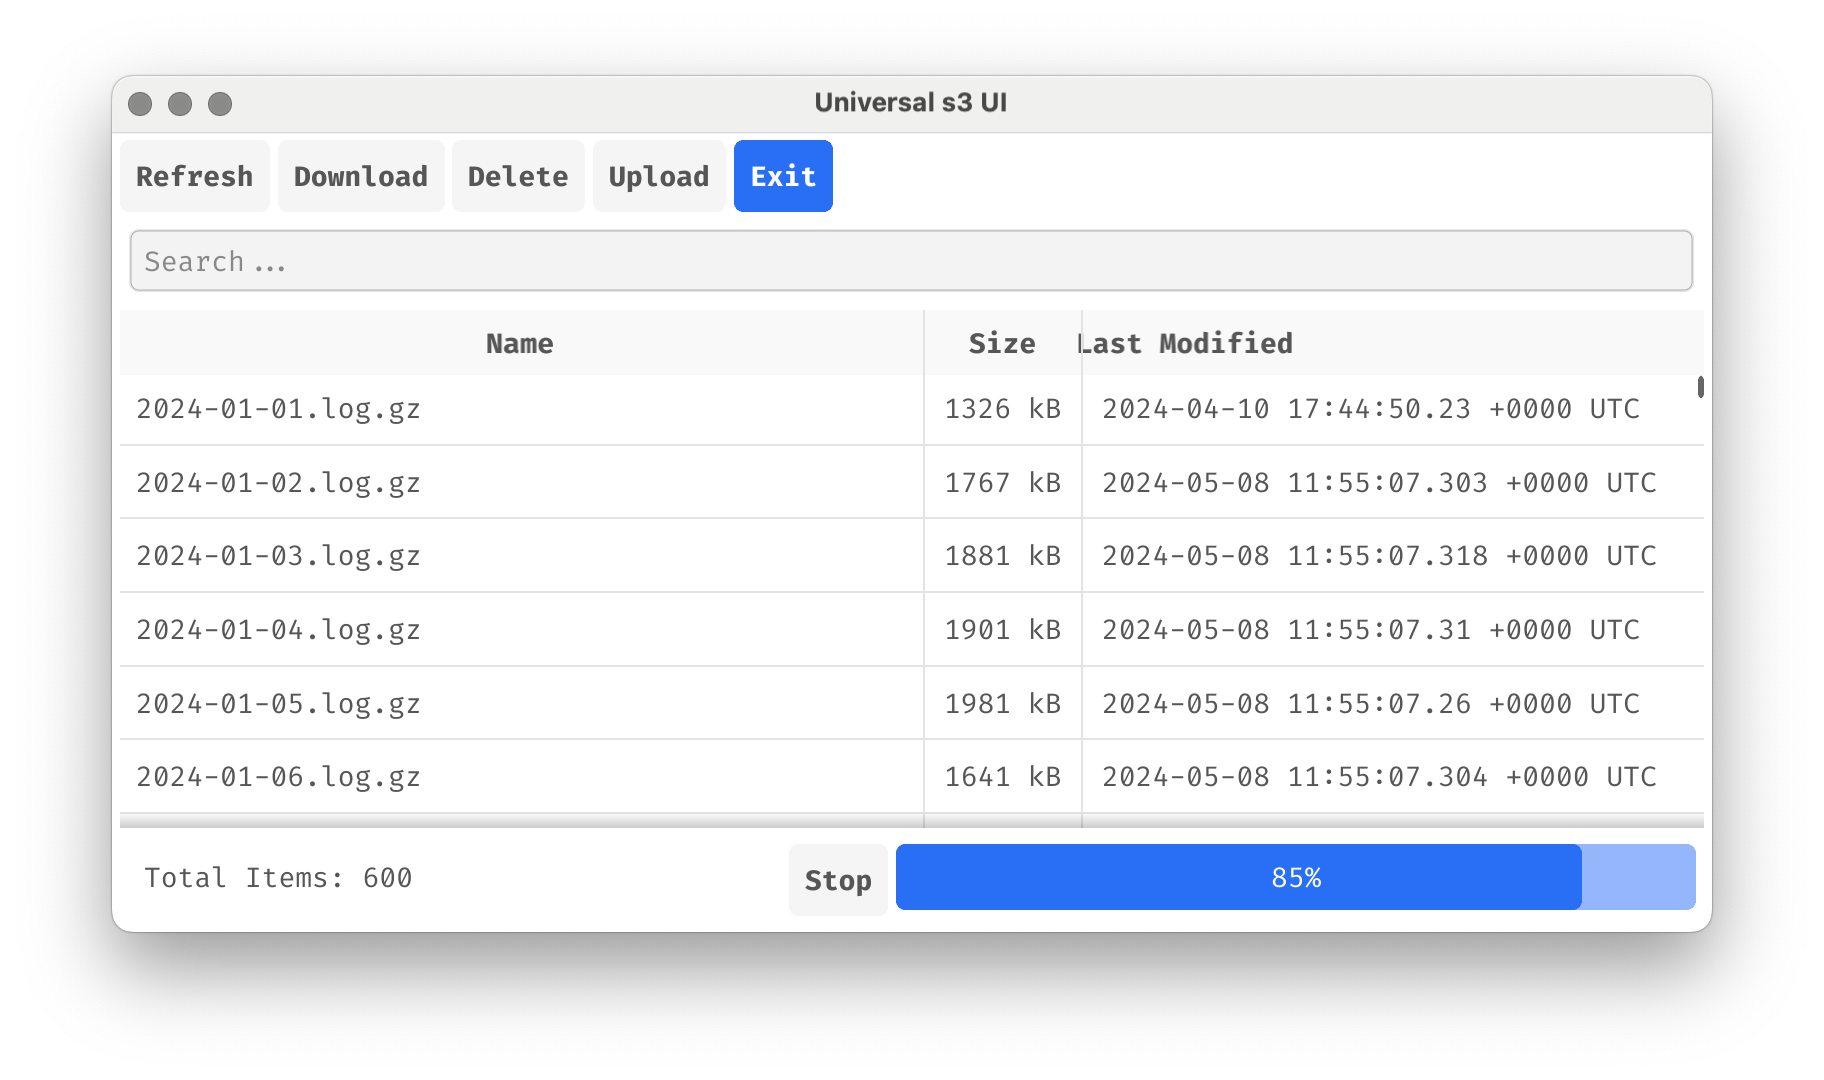
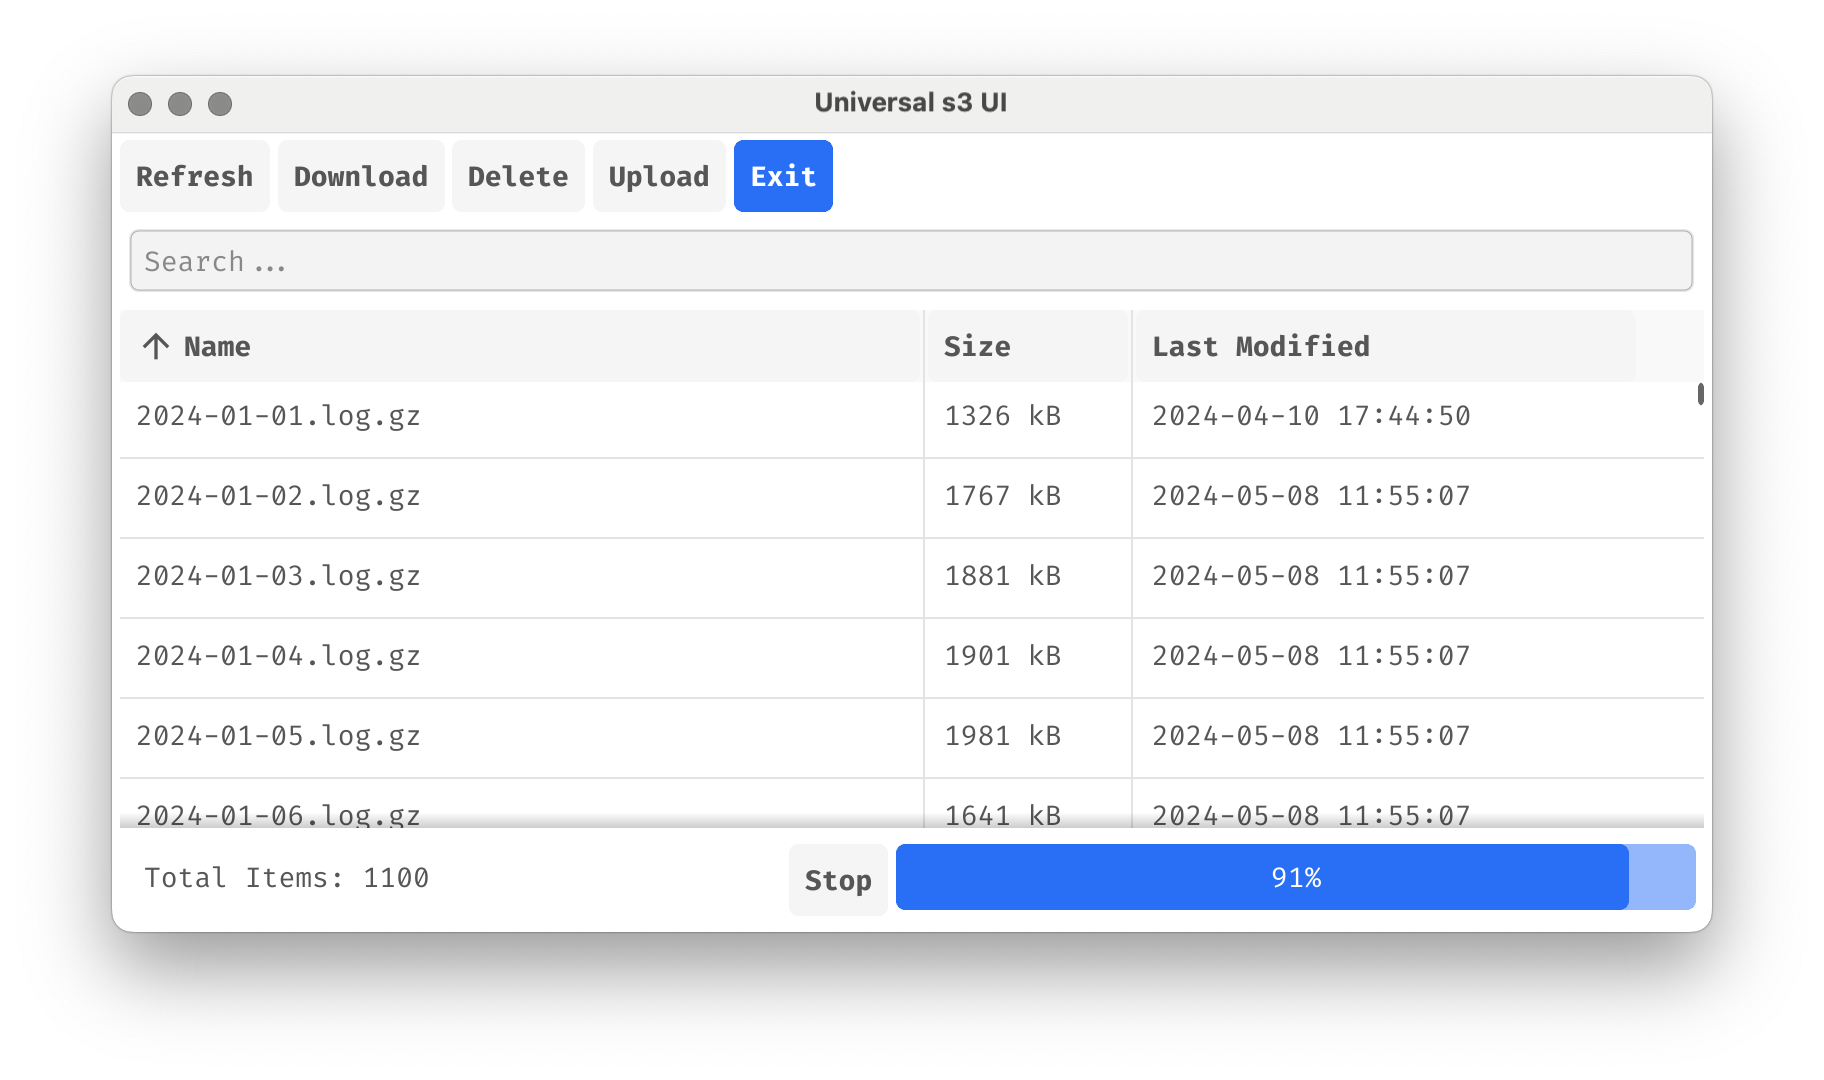
feat: reset selected index and update object list after batch processing

diff --git a/windows/mainwindow.go b/windows/mainwindow.go
@@ -272,6 +272,9 @@ func (mw *MainWindow) loadObjects(ctx context.Context) {
 			if len(batch) > 0 {
 				lastKey = batch[len(batch)-1].Key
 			}
+
+			mw.selectedIndex = -1
+			mw.updateObjectList()
 		}
 		if err != nil {
 			dialog.ShowError(err, mw.window)
